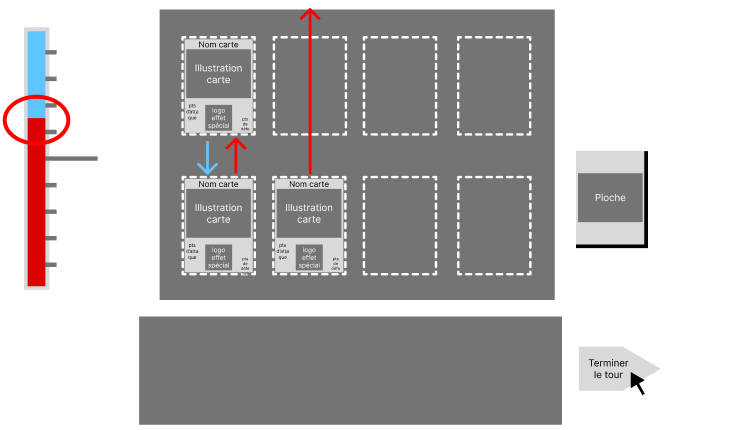
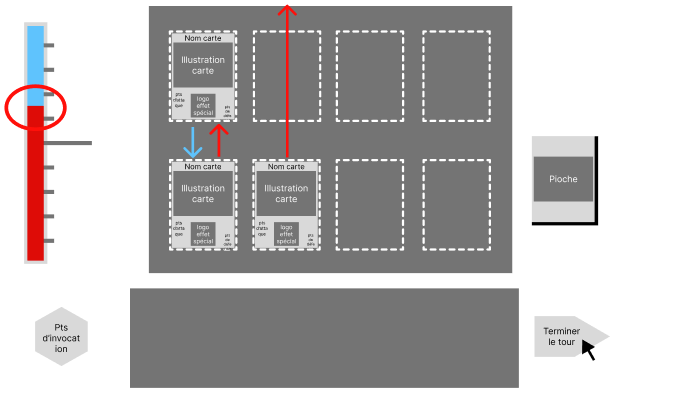
modif illustrations page règle legère modif structure et texte page règle ajout cout ennemi

diff --git a/public/index.js b/public/index.js
@@ -150,9 +150,11 @@ function lancerPartie() {
 
     endTurnButton = new EndTurnButton();
 
-    pA = new pointsAction();
-    pA.ajoutPA(1);
+    pA = new pointsAction(true);
+    ennemiPA = new pointsAction(false);
 
+    pA.ajoutPA(1);
+    ennemiPA.ajoutPA(1);
 
     let audio = new Audio('./son/ittsu_deeyueru_taimu_3.mp3')
     audio.play();
@@ -520,6 +522,7 @@ class Plateau {
         };
 
         pA.ajoutPA(1);
+        ennemiPA.ajoutPA(1);
         fonctionAtk();
 
         console.log("entré dans action");
@@ -1500,10 +1503,16 @@ class Ia {
                     Math.floor(Math.random() * availablePlace.length)
                 ];
             let randCard = listCarte[Math.floor(Math.random() * listCarte.length)];
-            let newCard = new Carte(randCard.getImageSrc(),randCard.getNom(), randCard.getHpmax(),randCard.getAtk(), randCard.getType(),randCard.getCout(),randCard.getEffet());
-            newCard.visible(1, 1, false);
 
-            plateau.addCard(newCard, pos);
+            if (randCard.getCout() <= ennemiPA.getPA()){
+                console.log("COUT < PA");
+                let newCard = new Carte(randCard.getImageSrc(),randCard.getNom(), randCard.getHpmax(),randCard.getAtk(), randCard.getType(),randCard.getCout(),randCard.getEffet());
+                newCard.visible(1, 1, false);
+
+                plateau.addCard(newCard, pos);
+                ennemiPA.retirerPA(randCard.getCout());
+            }
+            
 
         }
     }
@@ -1516,40 +1525,44 @@ class pointsAction {
     #pA;
     #width;
     #height;
+    #joueur;
 
-    constructor() {
+    constructor(j) {
         this.#x = canvas.width - canvas.width / 1.1;
         this.#y = canvas.height / 1.2;
         this.#width = canvas.width / 20;
         this.#height = canvas.height / 10;
         this.#pA = 0;
+        this.#joueur = j;
         drawElement.push(this);
         elements.push(this);
     }
 
     draw() {
 
-        this.#x = canvas.width - canvas.width / 1.1;
-        this.#y = canvas.height / 1.2;
-        this.#width = canvas.width / 20;
-        this.#height = canvas.height / 10;
+        if (this.#joueur){
+            this.#x = canvas.width - canvas.width / 1.1;
+            this.#y = canvas.height / 1.2;
+            this.#width = canvas.width / 20;
+            this.#height = canvas.height / 10;
 
-        context.fillStyle = 'gray';
-        context.beginPath();
-        context.moveTo(this.#x, this.#y);
-        context.lineTo(this.#x + this.#width / 1.5, this.#y);
-        context.lineTo(this.#x + this.#width, this.#y + this.#height / 3);
-        context.lineTo(this.#x + this.#width, this.#y + this.#height / 1.5);
-        context.lineTo(this.#x + this.#width / 1.5, this.#y + this.#height);
-        context.lineTo(this.#x, this.#y + this.#height);
-        context.lineTo(this.#x - this.#width / 3, this.#y + this.#height / 1.5);
-        context.lineTo(this.#x - this.#width / 3, this.#y + this.#height / 3);
-        context.lineTo(this.#x, this.#y);
-        context.closePath();
-        context.fill();
-        context.font = canvas.width / 65 + 'px Arial';
-        context.fillStyle = 'black';
-        context.fillText(this.#pA + " PA", this.#x + this.#width / 3, this.#y + this.#height / 1.75);
+            context.fillStyle = 'gray';
+            context.beginPath();
+            context.moveTo(this.#x, this.#y);
+            context.lineTo(this.#x + this.#width / 1.5, this.#y);
+            context.lineTo(this.#x + this.#width, this.#y + this.#height / 3);
+            context.lineTo(this.#x + this.#width, this.#y + this.#height / 1.5);
+            context.lineTo(this.#x + this.#width / 1.5, this.#y + this.#height);
+            context.lineTo(this.#x, this.#y + this.#height);
+            context.lineTo(this.#x - this.#width / 3, this.#y + this.#height / 1.5);
+            context.lineTo(this.#x - this.#width / 3, this.#y + this.#height / 3);
+            context.lineTo(this.#x, this.#y);
+            context.closePath();
+            context.fill();
+            context.font = canvas.width / 65 + 'px Arial';
+            context.fillStyle = 'black';
+            context.fillText(this.#pA + " PA", this.#x + this.#width / 3, this.#y + this.#height / 1.75);
+        }
     }
 
     mouseHover() {

diff --git a/public/index.html b/public/index.html
@@ -10,18 +10,17 @@
     <section id="regles">
       <img src="images/logo.png" width="30%">
       <div id="texte">
-        <p>Lors de votre tour, vous pouver piocher et poser une seule carte et en avoir au maximum 5 dans votre main</p>
+        <p>Lors de votre tour, vous pouver piocher une seule carte et en avoir au maximum 5 dans votre main</p>
         <div id="img_exemples">
           <img src="images/exemple_pioche.png" width="30%">
           <img src="images/exemple_pose.png" width="30%">
         </div>
-        <p>A la fin du tour, chaque carte attaque automatique celle en face d'elle, et s'il n'y en a pas, le joueur est attaqué à la place</p>
+        <p>A la fin du tour, chaque carte attaque automatique celle en face d'elle (certains effets de carte peuvent altérer ce comportement), et s'il n'y en a pas, le joueur est attaqué à la place</p>
+        <button id="voirEffets">Voir la liste des effets</button>
         <img src="images/exemple_attaque.png" width="30%">
         <p>A chaque attaque contre un joueur (l'ennemi ou vous), la jauge de PV varie, la couleur rouge représente vos points de vie, et le bleu ceux de l'ennemi. Celui dont la couleur se vide perd le combat</p>
-        <p>Les cartes peuvent avoir des effets spéciaux</p>
         <img src="images/exemple_logo.jpg" alt="" width="10%">
       </div>
-      <button id="voirEffets">Voir la liste des effets</button>
       <button type="button" class="demarrer"> Commencer</button>
     </section>
 

diff --git a/public/style.css b/public/style.css
@@ -23,6 +23,7 @@
 img
 {
   margin: 2%;
+  border : 2px solid black;
 }
 
 #img_exemples
